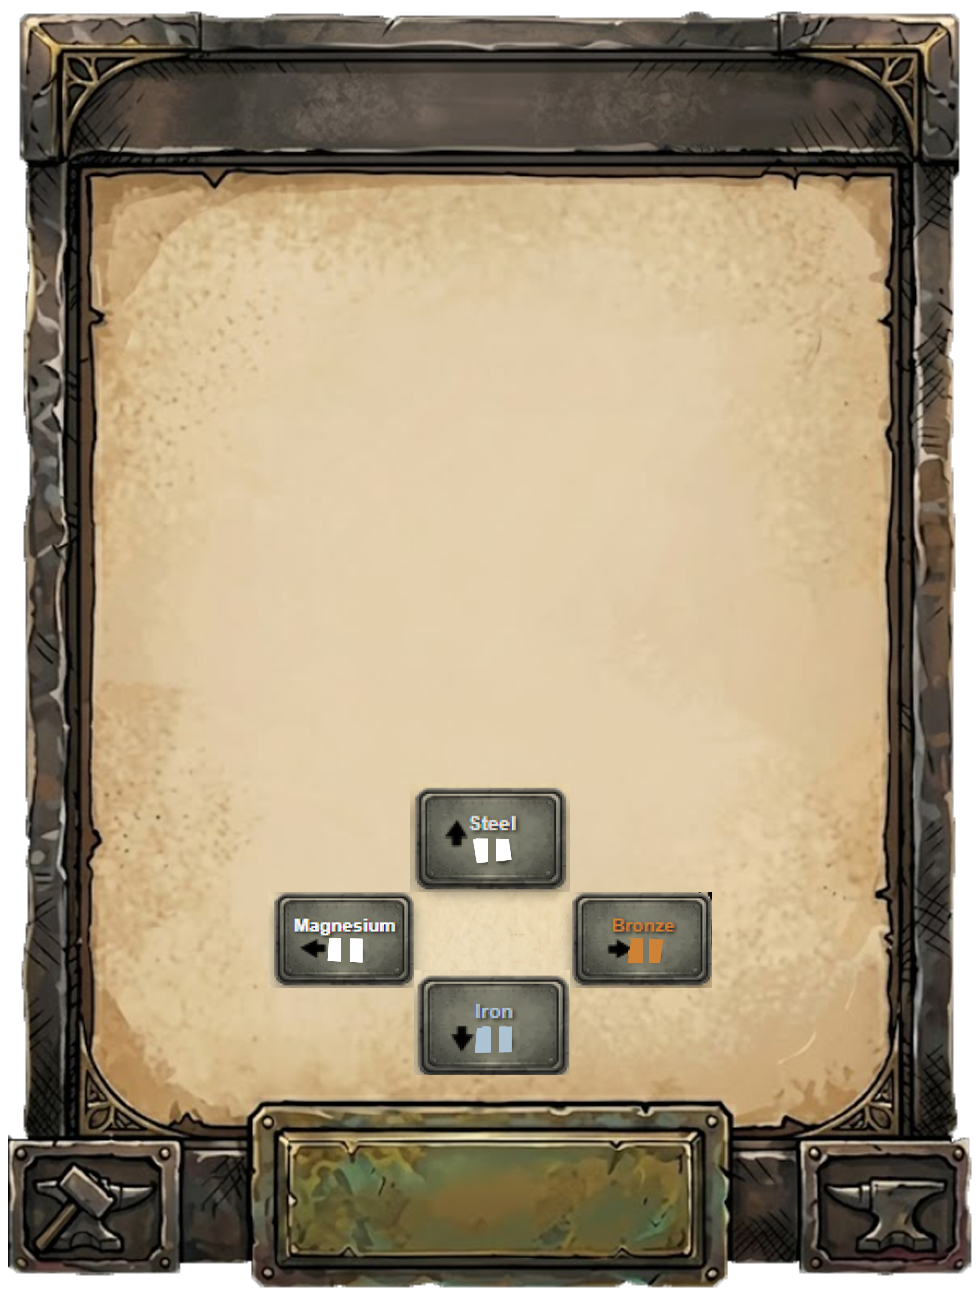
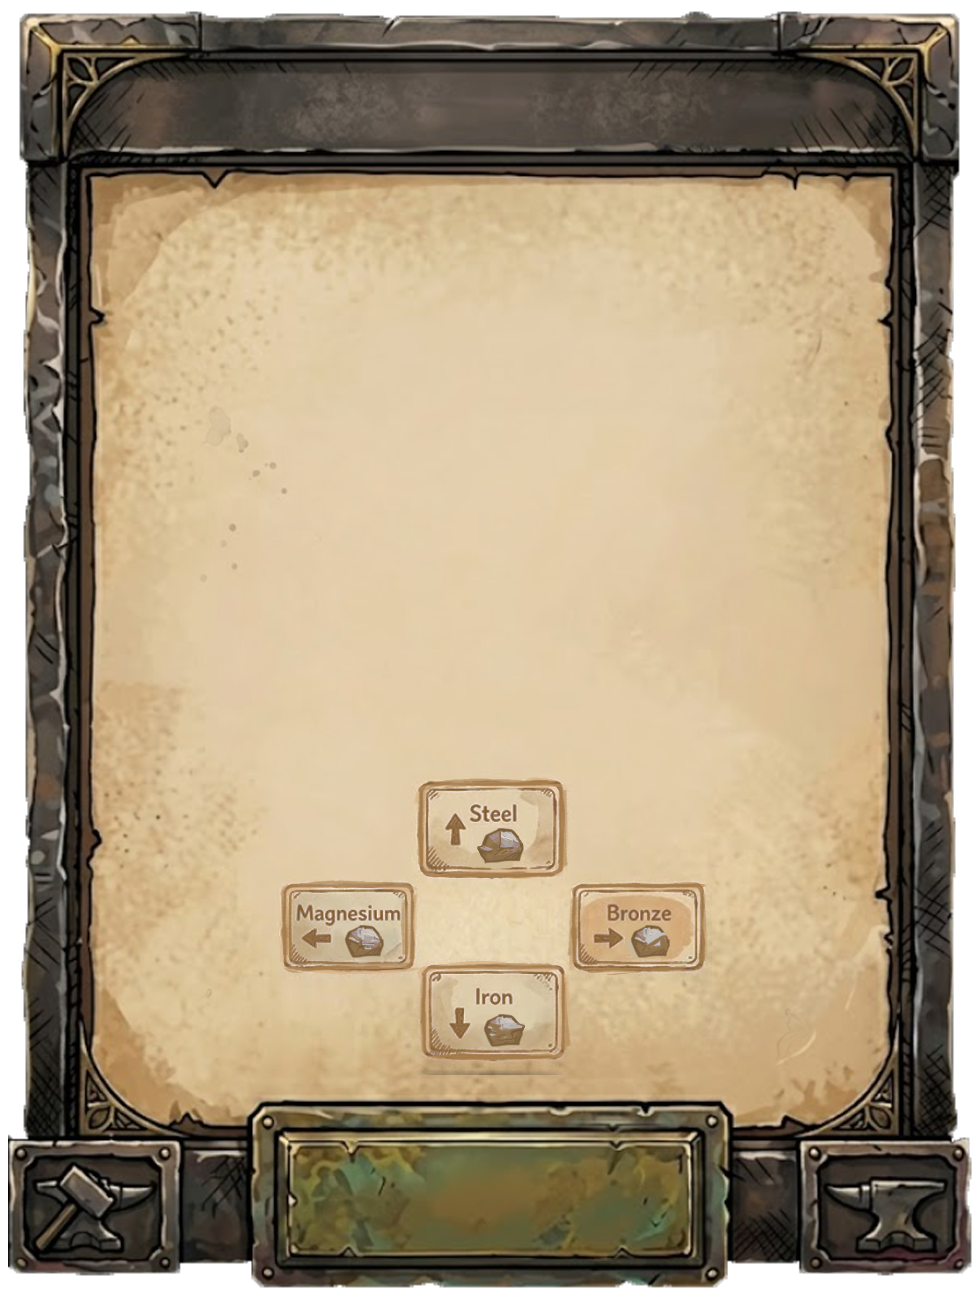
Recorded Compositions rework, minimap polish, illustrated slider lesson
Compositions / recipes:
- Rename "Saved Recipes" -> "Recorded Compositions"; button "Record
  Mixture"/"Record Last Mixture" -> "Record Composition"/"Record Last Composition".
- Compact 5-per-row tile grid showing only the trait icon; tap a tile to
  expand details (Tier, Traits, Value, Composition) + Auto-Craft.
- Block re-recording an identical composition (same traits + metals) with an alert.
- Remove the redundant "Craft & Sell" button; customer #3 now crafts via
  the Recorded Compositions Auto-Craft, then Give NPC.

Tutorial / UX:
- Disable Refuse for the first three (scripted) customers.
- Grey out Forge from the Flame heat until the composition is recorded.
- Allow recording after forging (lastForgedMixture).
- Split the slider lesson into two illustrated boxes (dialogue-frame9/10 art).

Minimap (Chart):
- Mark the player with the grid sword icon (tile_sword.png) + blue glow.
- Tutorial pointer alternates "Your location" / "Flame trait" every 3s.
- Scale the tap-a-trait name label so it's readable on the shrunk canvas.

Assets: add dialogue-frame9/10.png, Chart_background.png; update dialogue-frame2.png.
Spec (specs/game-design.md) synced throughout.

Changed region(s): [[0.2758, 0.5806, 0.7354, 0.8251], [0.6129, 0.8251, 0.6742, 0.8862]]

diff --git a/index.html b/index.html
@@ -325,6 +325,12 @@
         .btn-sell { background: #3498db; }
         .btn-shop { background: #9b59b6; }
         .empty-list { color: #888; font-size: 12px; font-style: italic; text-align: center; width: 100%; padding: 5px 0; }
+        /* Recorded Compositions: compact 5-per-row tiles showing just the trait icon; tap one to reveal its details below. */
+        .recipe-tile-grid { display: grid; grid-template-columns: repeat(5, 1fr); gap: 6px; }
+        .recipe-tile { aspect-ratio: 1; display: flex; align-items: center; justify-content: center; background: #f4f6f7; border: 1px solid #bdc3c7; border-radius: 6px; cursor: pointer; font-size: 20px; line-height: 1; user-select: none; }
+        .recipe-tile:hover { border-color: #95a5a6; }
+        .recipe-tile.selected { border: 2px solid #f1c40f; box-shadow: 0 0 8px rgba(241,196,15,0.75); }
+        #recipe-detail:empty { display: none; }
         .btn-craft { background: #27ae60; color: white; border: none; padding: 8px 10px; border-radius: 4px; margin-top: 8px; width: 100%; font-weight: bold; font-size: 12px; }
         .btn-craft:disabled { background: #95a5a6; cursor: not-allowed; opacity: 0.6; }
 
@@ -359,6 +365,11 @@
         .dialogue-frame.frame2 { background-image: url('assets/ui/dialogue-frame2.png'); aspect-ratio: 979 / 1309; padding: 0; }
         .dialogue-frame.frame2 .dialogue-title { position: absolute; top: 13%; left: 11%; right: 11%; margin: 0; font-size: 14px; }
         .dialogue-frame.frame2 .dialogue-text { position: absolute; top: 20%; left: 11%; right: 11%; bottom: 42%; margin: 0; display: flex; flex-direction: column; align-items: center; justify-content: flex-start; text-align: center; overflow: hidden; font-size: 11px; line-height: 1.4; }
+        /* Frames 9 & 10: Purify-slider lesson. Art (tap/hold, avoid-hazards) is baked into the lower half, so text sits in the upper parchment. */
+        .dialogue-frame.frame9, .dialogue-frame.frame10 { aspect-ratio: 979 / 1309; padding: 0; }
+        .dialogue-frame.frame9 { background-image: url('assets/ui/dialogue-frame9.png'); }
+        .dialogue-frame.frame10 { background-image: url('assets/ui/dialogue-frame10.png'); }
+        .dialogue-frame.frame9 .dialogue-text, .dialogue-frame.frame10 .dialogue-text { position: absolute; top: 14%; left: 11%; right: 11%; bottom: 50%; margin: 0; display: flex; flex-direction: column; align-items: center; justify-content: flex-start; text-align: center; overflow: hidden; font-size: 11px; line-height: 1.4; }
 
         /* Gameplay toast: shown briefly whenever the player steps onto a trait cell. */
         #traitToast { position: absolute; top: 64px; left: 50%; transform: translateX(-50%) translateY(-10px); background: rgba(44, 33, 22, 0.94); color: #f0d8a0; border: 1px solid #c8a84b; border-radius: 20px; padding: 8px 18px; font-family: 'Cinzel', serif; font-size: 13px; font-weight: bold; white-space: nowrap; box-shadow: 0 4px 10px rgba(0,0,0,0.4); z-index: 1000; opacity: 0; pointer-events: none; transition: opacity 0.3s ease, transform 0.3s ease; }
@@ -593,7 +604,7 @@
 
                 <div class="list-panel">
                     <h3 class="expandable-header" id="recipe-header" onclick="toggleRecipes()">
-                        📜 Saved Recipes <span id="recipe-arrow">▼</span>
+                        📜 Recorded Compositions <span id="recipe-arrow">▼</span>
                     </h3>
                     <div class="expandable-content" id="recipe-content">
                         <div class="sword-list" id="blueprints-list">
@@ -638,7 +649,7 @@
                 <div class="action-area">
                     <button class="action-btn" id="btnHeat">Heat<span id="heatArrow" class="tut-arrow">👇</span></button>
                     <button class="action-btn" id="btnForge">Forge<span id="forgeArrow" class="tut-arrow">👇</span></button>
-                    <button class="action-btn" id="btnSaveRecipe">Record Mixture</button>
+                    <button class="action-btn" id="btnSaveRecipe">Record Composition</button>
                     <button class="action-btn" id="btnChart">🗺️ Chart</button>
                 </div>
 
@@ -738,9 +749,13 @@
                         <button class="minimap-zoom-btn" onclick="zoomMinimapAt(250,250,1.3)">+</button>
                         <button class="minimap-zoom-btn" onclick="zoomMinimapAt(250,250,1/1.3)">−</button>
                     </div>
+                    <div id="chartHint" style="display:none; position:absolute; left:0; top:0; transform:translate(-50%,-100%); pointer-events:none; z-index:5; text-align:center;">
+                        <div id="chartHintLabel" style="background:rgba(44,33,22,0.96); color:#f0d8a0; border:1px solid #c8a84b; border-radius:10px; padding:3px 9px; font-family:'Cinzel',serif; font-size:11px; font-weight:bold; white-space:nowrap; box-shadow:0 2px 6px rgba(0,0,0,0.5); margin-bottom:1px;">Your location</div>
+                        <div style="font-size:26px; line-height:1; filter:drop-shadow(0 2px 3px rgba(0,0,0,0.75)); animation:tutHandBob 0.7s ease-in-out infinite alternate;">👇</div>
+                    </div>
                 </div>
                 <div style="display:flex; flex-wrap:wrap; gap:6px 14px; justify-content:center; margin-top:10px; font-size:11px; color:#4a3623; font-family:'Cinzel',serif;">
-                    <span><span style="display:inline-block;width:10px;height:10px;border-radius:50%;background:#3aa0ff;border:1px solid #fff;vertical-align:middle;"></span> You</span>
+                    <span><img src="assets/map/tile_sword.png" style="width:16px;height:16px;vertical-align:middle;object-fit:contain;"> You</span>
                     <span>Traits shown as icons — tap one for its name</span>
                     <span>Scroll / pinch to zoom · drag to pan</span>
                 </div>
@@ -896,7 +911,9 @@
         }
 
         let minimapAnim = null, minimapStatic = null;
+        const minimapSwordImg = new Image(); minimapSwordImg.src = 'assets/map/tile_sword.png'; // same player icon as the grid map
         let minimapZoom = 1, minimapPanX = 0, minimapPanY = 0, selectedTraitCell = -1;
+        let chartHintTarget = null, chartHintTimer = null; // tutorial: alternating "Your location" / "Flame trait" pointer on the minimap
 
         // Build the static layer once: full 50x50 ground + every trait icon (hazards are NOT shown).
         function buildMinimapStatic() {
@@ -935,18 +952,39 @@
             // pulsing player marker
             const pulse = 0.5 + 0.5 * Math.sin((t || 0) / 300);
             const px = (playerX * s + s / 2) * minimapZoom + minimapPanX, py = (playerY * s + s / 2) * minimapZoom + minimapPanY;
-            ctx.beginPath(); ctx.arc(px, py, 6 + 3 * pulse, 0, Math.PI * 2); ctx.fillStyle = 'rgba(52,160,255,0.95)'; ctx.fill();
-            ctx.lineWidth = 2; ctx.strokeStyle = '#fff'; ctx.stroke();
+            if (minimapSwordImg.complete && minimapSwordImg.naturalWidth) {
+                // same sword icon as the grid map, with a pulsing blue glow to mark the player
+                const sz = 28; ctx.save(); ctx.shadowColor = 'rgba(52,160,255,0.9)'; ctx.shadowBlur = 5 + 6 * pulse;
+                ctx.drawImage(minimapSwordImg, px - sz / 2, py - sz / 2, sz, sz); ctx.restore();
+            } else {
+                ctx.beginPath(); ctx.arc(px, py, 6 + 3 * pulse, 0, Math.PI * 2); ctx.fillStyle = 'rgba(52,160,255,0.95)'; ctx.fill();
+                ctx.lineWidth = 2; ctx.strokeStyle = '#fff'; ctx.stroke();
+            }
+            // Tutorial: alternating pointer over the player marker / Flame icon (tracks zoom & pan).
+            if (chartHintTarget) {
+                const hint = document.getElementById('chartHint');
+                let gx = playerX, gy = playerY, label = 'Your location';
+                if (chartHintTarget === 'flame') { const fi = boardData.indexOf('🔥'); if (fi !== -1) { gx = fi % gridSize; gy = Math.floor(fi / gridSize); label = 'Flame trait'; } }
+                const hx = (gx * s + s / 2) * minimapZoom + minimapPanX, hy = (gy * s + s / 2) * minimapZoom + minimapPanY;
+                if (hx < 0 || hy < 0 || hx > canvas.width || hy > canvas.height) { hint.style.display = 'none'; }
+                else {
+                    const disp = canvas.clientWidth / canvas.width;
+                    hint.style.left = Math.round(hx * disp) + 'px'; hint.style.top = Math.round(hy * disp - 6) + 'px';
+                    document.getElementById('chartHintLabel').textContent = label; hint.style.display = 'block';
+                }
+            }
             // selected trait name label, below the icon
             if (selectedTraitCell >= 0) {
                 const trait = baseTraits.find(tt => tt.symbol === boardData[selectedTraitCell]);
                 if (!trait) { selectedTraitCell = -1; return; }
                 const gx = selectedTraitCell % gridSize, gy = Math.floor(selectedTraitCell / gridSize);
                 const sx = (gx * s + s / 2) * minimapZoom + minimapPanX, sy = (gy * s + s / 2) * minimapZoom + minimapPanY;
-                ctx.font = 'bold 12px Cinzel, serif'; ctx.textAlign = 'center'; ctx.textBaseline = 'middle';
-                const tw = ctx.measureText(trait.name).width, padX = 8, h = 18, boxY = sy + s * minimapZoom * 0.7 + 3;
-                ctx.fillStyle = 'rgba(44,33,22,0.95)'; roundRectPath(ctx, sx - tw / 2 - padX, boxY, tw + padX * 2, h, 5); ctx.fill();
-                ctx.strokeStyle = '#c8a84b'; ctx.lineWidth = 1; ctx.stroke();
+                // The 500px canvas is displayed much smaller, so scale the label up by that ratio to keep it readable.
+                const k = canvas.width / (canvas.clientWidth || canvas.width);
+                ctx.font = 'bold ' + Math.round(13 * k) + 'px Cinzel, serif'; ctx.textAlign = 'center'; ctx.textBaseline = 'middle';
+                const tw = ctx.measureText(trait.name).width, padX = 8 * k, h = 20 * k, boxY = sy + s * minimapZoom * 0.7 + 4 * k;
+                ctx.fillStyle = 'rgba(44,33,22,0.95)'; roundRectPath(ctx, sx - tw / 2 - padX, boxY, tw + padX * 2, h, 6 * k); ctx.fill();
+                ctx.strokeStyle = '#c8a84b'; ctx.lineWidth = 1.5 * k; ctx.stroke();
                 ctx.fillStyle = '#f0d8a0'; ctx.fillText(trait.name, sx, boxY + h / 2);
             }
         }
@@ -980,6 +1018,18 @@
             canvas.addEventListener('touchend', e => { if (dragging && !moved && e.changedTouches.length) minimapSelectAt(e.changedTouches[0].clientX, e.changedTouches[0].clientY); dragging = false; pinchDist = 0; });
         })();
 
+        // Tutorial: point at the player's location, then the Flame trait, alternating every 3s until the chart closes.
+        function startChartHint() {
+            chartHintTarget = 'player';
+            if (chartHintTimer) clearInterval(chartHintTimer);
+            chartHintTimer = setInterval(() => { chartHintTarget = (chartHintTarget === 'player') ? 'flame' : 'player'; }, 3000);
+        }
+        function stopChartHint() {
+            chartHintTarget = null;
+            if (chartHintTimer) { clearInterval(chartHintTimer); chartHintTimer = null; }
+            const h = document.getElementById('chartHint'); if (h) h.style.display = 'none';
+        }
+
         function openChartModal() {
             document.getElementById('chartModal').style.display = 'flex';
             hideHands();
@@ -987,10 +1037,13 @@
             buildMinimapStatic();
             if (minimapAnim) cancelAnimationFrame(minimapAnim);
             minimapLoop();
+            // Guide the player during the tutorial chart step (you → flame, repeating).
+            if (tutorialStep < tutorialFlow.length && tutorialFlow[tutorialStep].waitAction === 'chartClosed') startChartHint(); else stopChartHint();
         }
 
         function closeChartModal() {
             document.getElementById('chartModal').style.display = 'none';
+            stopChartHint();
             if (minimapAnim) { cancelAnimationFrame(minimapAnim); minimapAnim = null; }
             if (tutorialStep < tutorialFlow.length && tutorialFlow[tutorialStep].waitAction === 'chartClosed') { tutorialStep++; setTimeout(playTutorialStep, 400); }
         }
@@ -1086,17 +1139,18 @@
             { waitAction: 'switchToForge', hand: [{ sel: '#nav-right', side: 'leftOf' }] },
             { text: "Open the chart to get an idea of what metals we need to use to craft a flame sword." },
             { waitAction: 'chartClosed', hand: [{ sel: '#btnChart', side: 'above' }] },
-            { onShow: () => { purifyEnabled = true; }, text: "Hold a metal button to use the slider and move up to 3 blocks with just one metal. Plan your path and avoid impure zones. Now hold Magnesium and move west for a fiery sword!" },
+            { onShow: () => { purifyEnabled = true; }, frame: 9, text: "Hold a metal button to use the slider and move up to 3 blocks with just one metal." },
+            { frame: 10, text: "Plan your path and avoid impure zones. Now hold Magnesium and move west for a fiery sword!" },
             { waitAction: 'reachFlameTrait', hand: [{ sel: '#btnMagnesium', side: 'above' }] },
             { waitAction: 'heatFlame' },
-            { text: "Click on 'record mixture' to save the metals we used to craft a sword with a specific trait." },
+            { text: "Click on 'Record Composition' to save the metals we used to craft a sword with a specific trait." },
             { waitAction: 'recordMixture', hand: [{ sel: '#btnSaveRecipe', side: 'above' }] },
             { onShow: () => showForgeArrow(), waitAction: 'forge' },
             { text: "Go to the counter and sell it!" },
             { waitAction: 'sellFlame' },
             { onShow: () => { setRandomRequest(); const bp = savedBlueprints.find(b => b.traits.some(t => t.id === 'flame')); if (bp) metalsList.forEach(m => { if (availableMetals[m] < bp.recipe[m]) availableMetals[m] = bp.recipe[m]; }); updateUI(); }, action: 'delay', duration: 4000 },
-            { onShow: () => { const c = document.getElementById('recipe-content'); if (c && !c.classList.contains('expanded')) toggleRecipes(); }, text: "You know how to craft a flame sword! Open your Saved Recipes below, tap Auto-Craft to forge one, then give it to the customer." },
-            { waitAction: 'craftFlameRecipe', hand: [{ sel: '#blueprints-list .btn-craft', side: 'above' }] },
+            { onShow: () => { const c = document.getElementById('recipe-content'); if (c && !c.classList.contains('expanded')) toggleRecipes(); const fi = savedBlueprints.findIndex(b => b.traits.some(t => t.id === 'flame')); if (fi !== -1) { selectedBlueprintIndex = fi; renderBlueprints(); } }, text: "You know how to craft a flame sword! In your Recorded Compositions below, tap Auto-Craft to forge one from the flame composition, then give it to the customer." },
+            { waitAction: 'craftFlameRecipe', hand: [{ sel: '#recipe-detail .btn-craft', side: 'above' }] },
             { waitAction: 'sellFlame2', hand: [{ sel: '#btnAutoSell', side: 'above' }] },
             { action: 'delay', duration: 4000 },
             { onShow: () => { setRandomRequest(); updateUI(); }, text: "Great work! Some customers know exactly what they want. Others need your expert advice. Help them find the perfect sword!" },
@@ -1110,7 +1164,7 @@
             if (step.hand) setTimeout(() => { if (tutorialFlow[tutorialStep] === step) showHands(step.hand); }, 50);
 
             if (step.text) {
-                document.getElementById('tutorialFrame').classList.toggle('frame2', step.frame === 2);
+                const frameEl = document.getElementById('tutorialFrame'); frameEl.classList.remove('frame2', 'frame9', 'frame10'); if (step.frame) frameEl.classList.add('frame' + step.frame);
                 const titleEl = document.getElementById('tutorial-title');
                 const title = step.title || (tutorialStep === 0 ? "Welcome to the Forge!" : null);
                 if (title) { titleEl.textContent = title; titleEl.style.display = 'block'; }
@@ -1135,7 +1189,7 @@
         function checkShopTutorial() {
             if (gold >= 50 && !hasShownShopTutorial) {
                 hasShownShopTutorial = true;
-                document.getElementById('tutorialFrame').classList.remove('frame2');
+                document.getElementById('tutorialFrame').classList.remove('frame2', 'frame9', 'frame10');
                 document.getElementById('tutorial-title').textContent = "Shop Unlocked!"; document.getElementById('tutorial-title').style.display = "block";
                 document.getElementById('tutorial-text').textContent = "Shop can now be opened. Swipe left to the shop and display swords for passive sale.";
                 document.getElementById('tutorialModal').style.display = 'flex';
@@ -1429,7 +1483,7 @@
             forgeBtn.classList.toggle('btn-glow', !forgeBtn.disabled); // glow once there's a heated trait to forge
             // First-craft stage: Record Mixture and Chart are locked until the first sword is forged.
             const saveBtn = document.getElementById('btnSaveRecipe'); saveBtn.disabled = tutorialMetalLock;
-            saveBtn.textContent = (activeTraits.length === 0 && lastForgedMixture) ? 'Record Last Mixture' : 'Record Mixture';
+            saveBtn.textContent = (activeTraits.length === 0 && lastForgedMixture) ? 'Record Last Composition' : 'Record Composition';
             document.getElementById('btnChart').disabled = tutorialMetalLock;
 
             if (shopUnlocked) {
@@ -1443,16 +1497,31 @@
             renderBlueprints(); renderVault(); checkShopTutorial();
         }
 
+        let selectedBlueprintIndex = -1;
+        function selectBlueprint(index) { selectedBlueprintIndex = (selectedBlueprintIndex === index) ? -1 : index; renderBlueprints(); }
         function renderBlueprints() {
             const listEl = document.getElementById('blueprints-list'); listEl.innerHTML = '';
-            if (savedBlueprints.length === 0) { listEl.innerHTML = '<div class="empty-list">No recipes saved yet.</div>'; return; }
+            if (savedBlueprints.length === 0) { listEl.innerHTML = '<div class="empty-list">No compositions recorded yet.</div>'; selectedBlueprintIndex = -1; return; }
+            if (selectedBlueprintIndex >= savedBlueprints.length) selectedBlueprintIndex = -1;
+            // Compact tile grid: each tile shows only the trait icon(s).
+            const grid = document.createElement('div'); grid.className = 'recipe-tile-grid';
             savedBlueprints.forEach((bp, index) => {
-                const card = document.createElement('div'); card.className = 'sword-card';
-                const canAfford = metalsList.every(m => availableMetals[m] >= bp.recipe[m]);
-                const costString = metalsList.filter(m => bp.recipe[m] > 0).map(m => `${bp.recipe[m]}${getInitials(m)}`).join(' | ');
-                card.innerHTML = `<div class="sword-card-title">📜 ${bp.name}</div><div class="sword-card-details"><strong>Tier:</strong> ${getSwordTier(bp)}<br><strong>Traits:</strong> ${bp.traits.map(t => `${t.quality} ${t.symbol} ${t.name}`).join(', ')}<br><strong>Value:</strong> ${calculateSwordValue(bp.traits)}g<br><strong>Cost:</strong> ${costString}</div><button class="btn-craft" ${canAfford ? '' : 'disabled'} onclick="quickCraft(${index})">⚡ Auto-Craft</button>`;
-                listEl.appendChild(card);
+                const tile = document.createElement('div'); tile.className = 'recipe-tile' + (index === selectedBlueprintIndex ? ' selected' : '');
+                tile.title = bp.name; tile.onclick = () => selectBlueprint(index);
+                tile.textContent = bp.traits.length ? bp.traits.map(t => t.symbol).join('') : '🗡️';
+                grid.appendChild(tile);
             });
+            listEl.appendChild(grid);
+            // Detail panel for the selected tile: Tier, Traits, Value, Composition + Auto-Craft.
+            const detail = document.createElement('div'); detail.id = 'recipe-detail';
+            if (selectedBlueprintIndex >= 0) {
+                const bp = savedBlueprints[selectedBlueprintIndex];
+                const canAfford = metalsList.every(m => availableMetals[m] >= bp.recipe[m]);
+                const compString = metalsList.filter(m => bp.recipe[m] > 0).map(m => `${bp.recipe[m]}${getInitials(m)}`).join(' | ');
+                detail.className = 'sword-card'; detail.style.marginTop = '8px';
+                detail.innerHTML = `<div class="sword-card-title">📜 ${bp.name}</div><div class="sword-card-details"><strong>Tier:</strong> ${getSwordTier(bp)}<br><strong>Traits:</strong> ${bp.traits.map(t => `${t.quality} ${t.symbol} ${t.name}`).join(', ')}<br><strong>Value:</strong> ${calculateSwordValue(bp.traits)}g<br><strong>Composition:</strong> ${compString}</div><button class="btn-craft" ${canAfford ? '' : 'disabled'} onclick="quickCraft(${selectedBlueprintIndex})">⚡ Auto-Craft</button>`;
+            }
+            listEl.appendChild(detail);
         }
 
         let vaultHighlightIndex = -1;
@@ -1770,10 +1839,14 @@
             } else { alert("You need at least one heated trait to save a recipe!"); return; }
             const traitNames = traits.map(t => `${t.quality} ${t.name}`).join(' & ');
 
+            // Block re-recording an identical composition (same trait set + same metals).
+            const dup = savedBlueprints.some(bp => bp.traits.length === traits.length && traits.every(t => bp.traits.some(bt => bt.id === t.id)) && metalsList.every(m => bp.recipe[m] === recipe[m]));
+            if (dup) { const plain = traits.map(t => t.name).join(' & '); alert(`You have already recorded this composition for the ${plain} trait${traits.length > 1 ? 's' : ''}!`); return; }
+
             const defaultDesign = { blade: 0, grip: 0, guard: 0, pommel: 0 };
 
             savedBlueprints.push({ name: traitNames + " Blade", traits: [...traits], recipe: { ...recipe }, design: defaultDesign });
-            showTraitToast(`📜 ${traitNames} mixture recorded`);
+            showTraitToast(`📜 ${traitNames} composition recorded`);
             forgeLockedForRecord = false; // recording done — Forge is available again
             const content = document.getElementById('recipe-content'); if(!content.classList.contains('expanded')) toggleRecipes(); updateUI();
             // Tutorial: after the "mixture recorded" toast is read (~2s), show the closing dialogue.

diff --git a/specs/game-design.md b/specs/game-design.md
@@ -40,7 +40,7 @@ You play a blacksmith who explores a dark 50×50 grid to discover magical traits
 
   The 4 cardinal metals are available from the start; the 4 diagonal metals must each be unlocked for **50 Gold** (click the locked grid button).
 
-  **First-craft tutorial lock:** the game starts with exactly **4 steel + 1 magnesium** and everything else gated — only Steel & Magnesium are usable, the other metal buttons, Record Mixture, Chart, and passive metal generation are all disabled. This lock lifts the moment the **first sword is forged** (`tutorialMetalLock`), after which generation resumes and all buttons unlock normally.
+  **First-craft tutorial lock:** the game starts with exactly **4 steel + 1 magnesium** and everything else gated — only Steel & Magnesium are usable, the other metal buttons, Record Composition, Chart, and passive metal generation are all disabled. This lock lifts the moment the **first sword is forged** (`tutorialMetalLock`), after which generation resumes and all buttons unlock normally.
 
 ### Purify mini-game (movement)
 
@@ -104,21 +104,23 @@ On success the trait fuses onto the active blade and a **"`<symbol>` `<name>` tr
 - Requests are scripted then randomized:
   - **Request #1:** "any weapon" — any sword works; pays at least **15g**.
   - **Request #2:** scripted **Flame** 🔥 trait request. (During the tutorial, this customer is held back until the player dismisses the post-sale dialogue, then summoned manually.)
-  - **Request #3:** scripted **ice-dragon** customer — asks indirectly for a sword "weak to heat" (resolves to the **Flame** 🔥 trait); the tutorial uses this customer to teach crafting from a saved recipe via the Saved Recipes **Auto-Craft** button.
+  - **Request #3:** scripted **ice-dragon** customer — asks indirectly for a sword "weak to heat" (resolves to the **Flame** 🔥 trait); the tutorial uses this customer to teach crafting from a recorded composition via the Recorded Compositions **Auto-Craft** button.
   - **Request #4+:** random trait (from the 8 closest-to-center traits while `requestCount ≤ 10`, then from all 24). **10% chance** to also demand a specific shape.
 - **Payout** = sword value, modified by Reputation:
   - Rep < 0 → **×0.8** (min 1g)
   - Rep > 10 → **×1.2**
 - **Sale:** +1 Reputation. **Refuse:** −1 Reputation, new customer after ~1.2s. The **Refuse** button is **disabled for the first three (scripted) customers** (`requestCount ≤ 3`) so the tutorial flow can't be broken; it enables from customer #4 on.
-- Shortcut: **Search Inventory** finds the sword in the Vault that matches the customer's request, then expands, highlights and scrolls to it — the player still taps **Give NPC** to sell (handy with a large inventory). *(A separate one-tap "Craft & Sell" button was removed; craft from a saved recipe via the Saved Recipes panel's **Auto-Craft** instead, then Give NPC.)*
+- Shortcut: **Search Inventory** finds the sword in the Vault that matches the customer's request, then expands, highlights and scrolls to it — the player still taps **Give NPC** to sell (handy with a large inventory). *(A separate one-tap "Craft & Sell" button was removed; craft from a recorded composition via the Recorded Compositions panel's **Auto-Craft** instead, then Give NPC.)*
 
 ### Passive shopfront
 - **Unlock:** 50 Gold.
 - Move swords from Vault into the Shop. Every **10 seconds**, each shop sword has an independent **5% chance** to sell for its full value. Does not affect Reputation.
 
-### Blueprints
-- The **Record Mixture** button saves the current active traits + used-metal recipe as a named Blueprint. If the active blade is empty (e.g. right after forging) but a sword was just forged, the button instead reads **Record Last Mixture** and saves that last forged sword's traits + recipe — so you can still record a mixture after forging without re-heating.
-- **Auto-Craft:** if you hold enough raw metals, one-click craft a blueprint (opens the Design Desk, outputs to Vault).
+### Recorded Compositions (blueprints)
+- The **Record Composition** button saves the current active traits + used-metal composition as a named entry. If the active blade is empty (e.g. right after forging) but a sword was just forged, the button instead reads **Record Last Composition** and saves that last forged sword's traits + composition — so you can still record after forging without re-heating.
+- **Duplicate guard:** recording an identical composition (same trait set **and** same metal counts) as an existing entry is blocked with an alert ("You have already recorded this composition for the {trait} trait!").
+- **Recorded Compositions panel** (Counter screen): entries are shown as a compact grid of **5-per-row tiles** displaying only the trait icon(s); tapping a tile reveals its details below (Tier, Traits, Value, **Composition**) plus an **Auto-Craft** button.
+- **Auto-Craft:** if you hold enough raw metals, one-click craft a recorded composition (opens the Design Desk, outputs to Vault).
 
 ## 7. Map travel (reset)
 
@@ -131,12 +133,12 @@ On success the trait fuses onto the active blade and a **"`<symbol>` `<name>` tr
 ## 8. UI / UX
 
 - **Three swipeable screens:** Shop (0) · Customers (1) · Forge/Map (2). Game opens on the Forge screen.
-- **Counter (Customers) screen:** a slim gold/reputation pill at the top; the customer rendered as an **image** anchored bottom-left that **slides in from the left** on each new customer, **rotating** through `assets/customer/man2.png` (always the first customer) → `man1.png` → `woman1.png`; the request speech bubble (tail pointing to the customer) with **Search Inventory / Refuse** stacked beside it (Refuse is disabled for the first three customers — see §6); and the expandable **Inventory (Vault)** then **Saved Recipes** panels at the bottom. Background: `Screen1bg.png`.
-- **Forge screen:** status panel (health bar, rep, gold, active traits), draggable/zoomable 50×50 viewport, 3×3 movement grid, action buttons (Heat, Forge, Record Mixture, 🗺️ Chart). ("Record Mixture" saves a Blueprint — see §6.)
-- **Onboarding:** 4-scene animated intro (ember particles) → multi-step tutorial (select metals → reach a trait → heat → forge → go to counter → sell a sword → a 2nd Flame-trait customer arrives → back to the forge → open the chart → learn the Purify-dash slider → head west toward the Flame trait (when its ❓ mark is revealed by the fog, a persistent top-of-screen banner — "See the trait mark ❓… add some iron to go down to it." — appears and stays until the player reaches it) → reach the Flame trait, where a bouncing arrow points to the Heat button → heat it → prompt to "Record Mixture" (the **Forge button is greyed out from when the Flame is heated until the mixture is recorded**, so the player can't accidentally forge first) → record it → a bouncing arrow points to the now-enabled Forge button to craft the sword → forge it → prompt to go sell it at the counter → sell the flame sword to the 2nd customer → a 3rd customer (off to fight an ice dragon, "weak to heat") arrives, a tutorial box teaches opening **Saved Recipes** and tapping **Auto-Craft** to forge a flame sword from the saved recipe, then giving it to the customer, who is delighted, then a closing "help customers find the perfect sword" tip), plus a contextual tip at the Shop unlock (50g).
-- **Feedback:** red flash on damage, orange flash on heat success, green gold-pulse on passive shop sales, "reached a trait" / "trait acquired" toasts. The **Heat** button pulses with a glow while standing on a trait; the **Forge** button is disabled until a trait is heated, then pulses with a glow (and during the guided flame step it is re-disabled from the heat until the mixture is recorded, so the player records before forging).
-- **Tutorial hand pointers:** at each guided step a bouncing 👆/👇/👈/👉 hand points to the element to use next — the Steel & Magnesium metal buttons (until the 4 steel + 1 magnesium recipe is added), Heat, Forge, the left/right screen arrows, Search Inventory, the Chart button, Magnesium again (until the Flame trait is revealed on the map), Record Mixture, and — for the 3rd (ice-dragon) customer — the Saved Recipes **Auto-Craft** button then **Search Inventory**. Each hand clears once its action is taken. Data-driven via a `hand` field on the relevant `tutorialFlow` gate steps.
-- **Minimap (Chart modal):** a live canvas minimap of the full 50×50 grid (fully revealed — no fog) — uniform tan ground (hazards are **not** shown), every trait drawn as its emoji icon at its location, and a pulsing blue marker for the player's position. Supports **zoom** (scroll / pinch / on-screen +/− buttons, 1×–6×) and **pan** (drag), clamped to the map. **Tapping a trait icon** shows a small label with that trait's name below it. (Replaces the old static `Minimap.png`, now unused.)
+- **Counter (Customers) screen:** a slim gold/reputation pill at the top; the customer rendered as an **image** anchored bottom-left that **slides in from the left** on each new customer, **rotating** through `assets/customer/man2.png` (always the first customer) → `man1.png` → `woman1.png`; the request speech bubble (tail pointing to the customer) with **Search Inventory / Refuse** stacked beside it (Refuse is disabled for the first three customers — see §6); and the expandable **Inventory (Vault)** then **Recorded Compositions** panels at the bottom (the latter a compact 5-per-row tile grid — tap a trait tile to expand its details). Background: `Screen1bg.png`.
+- **Forge screen:** status panel (health bar, rep, gold, active traits), draggable/zoomable 50×50 viewport, 3×3 movement grid, action buttons (Heat, Forge, Record Composition, 🗺️ Chart). ("Record Composition" saves a recorded composition — see §6.)
+- **Onboarding:** 4-scene animated intro (ember particles) → multi-step tutorial (select metals → reach a trait → heat → forge → go to counter → sell a sword → a 2nd Flame-trait customer arrives → back to the forge → open the chart (a bouncing pointer over the minimap alternates every 3s between the player marker — "Your location" — and the Flame icon — "Flame trait" — until the chart is closed, so the player sees where to head) → learn the Purify-dash slider (two illustrated dialogue boxes: a tap-vs-hold art frame, then an avoid-impure-tiles art frame) → head west toward the Flame trait (when its ❓ mark is revealed by the fog, a persistent top-of-screen banner — "See the trait mark ❓… add some iron to go down to it." — appears and stays until the player reaches it) → reach the Flame trait, where a bouncing arrow points to the Heat button → heat it → prompt to "Record Composition" (the **Forge button is greyed out from when the Flame is heated until the composition is recorded**, so the player can't accidentally forge first) → record it → a bouncing arrow points to the now-enabled Forge button to craft the sword → forge it → prompt to go sell it at the counter → sell the flame sword to the 2nd customer → a 3rd customer (off to fight an ice dragon, "weak to heat") arrives, a tutorial box teaches opening **Recorded Compositions** and tapping **Auto-Craft** to forge a flame sword from the recorded composition, then giving it to the customer, who is delighted, then a closing "help customers find the perfect sword" tip), plus a contextual tip at the Shop unlock (50g).
+- **Feedback:** red flash on damage, orange flash on heat success, green gold-pulse on passive shop sales, "reached a trait" / "trait acquired" toasts. The **Heat** button pulses with a glow while standing on a trait; the **Forge** button is disabled until a trait is heated, then pulses with a glow (and during the guided flame step it is re-disabled from the heat until the composition is recorded, so the player records before forging).
+- **Tutorial hand pointers:** at each guided step a bouncing 👆/👇/👈/👉 hand points to the element to use next — the Steel & Magnesium metal buttons (until the 4 steel + 1 magnesium recipe is added), Heat, Forge, the left/right screen arrows, Search Inventory, the Chart button, Magnesium again (until the Flame trait is revealed on the map), Record Composition, and — for the 3rd (ice-dragon) customer — the selected composition's **Auto-Craft** button then **Search Inventory**. Each hand clears once its action is taken. Data-driven via a `hand` field on the relevant `tutorialFlow` gate steps.
+- **Minimap (Chart modal):** a live canvas minimap of the full 50×50 grid (fully revealed — no fog) — uniform tan ground (hazards are **not** shown), every trait drawn as its emoji icon at its location, and the player marked by the same sword icon used on the grid map (`assets/map/tile_sword.png`) with a pulsing blue glow. Supports **zoom** (scroll / pinch / on-screen +/− buttons, 1×–6×) and **pan** (drag), clamped to the map. **Tapping a trait icon** shows a small label with that trait's name below it. During the tutorial's chart step, a bouncing 👇 pointer overlays the minimap and alternates every 3 seconds between the player marker ("Your location") and the Flame icon ("Flame trait"), tracking zoom/pan, until the chart is closed. (Replaces the old static `Minimap.png`, now unused.)
 
 ## 9. Known discrepancies & open questions
 